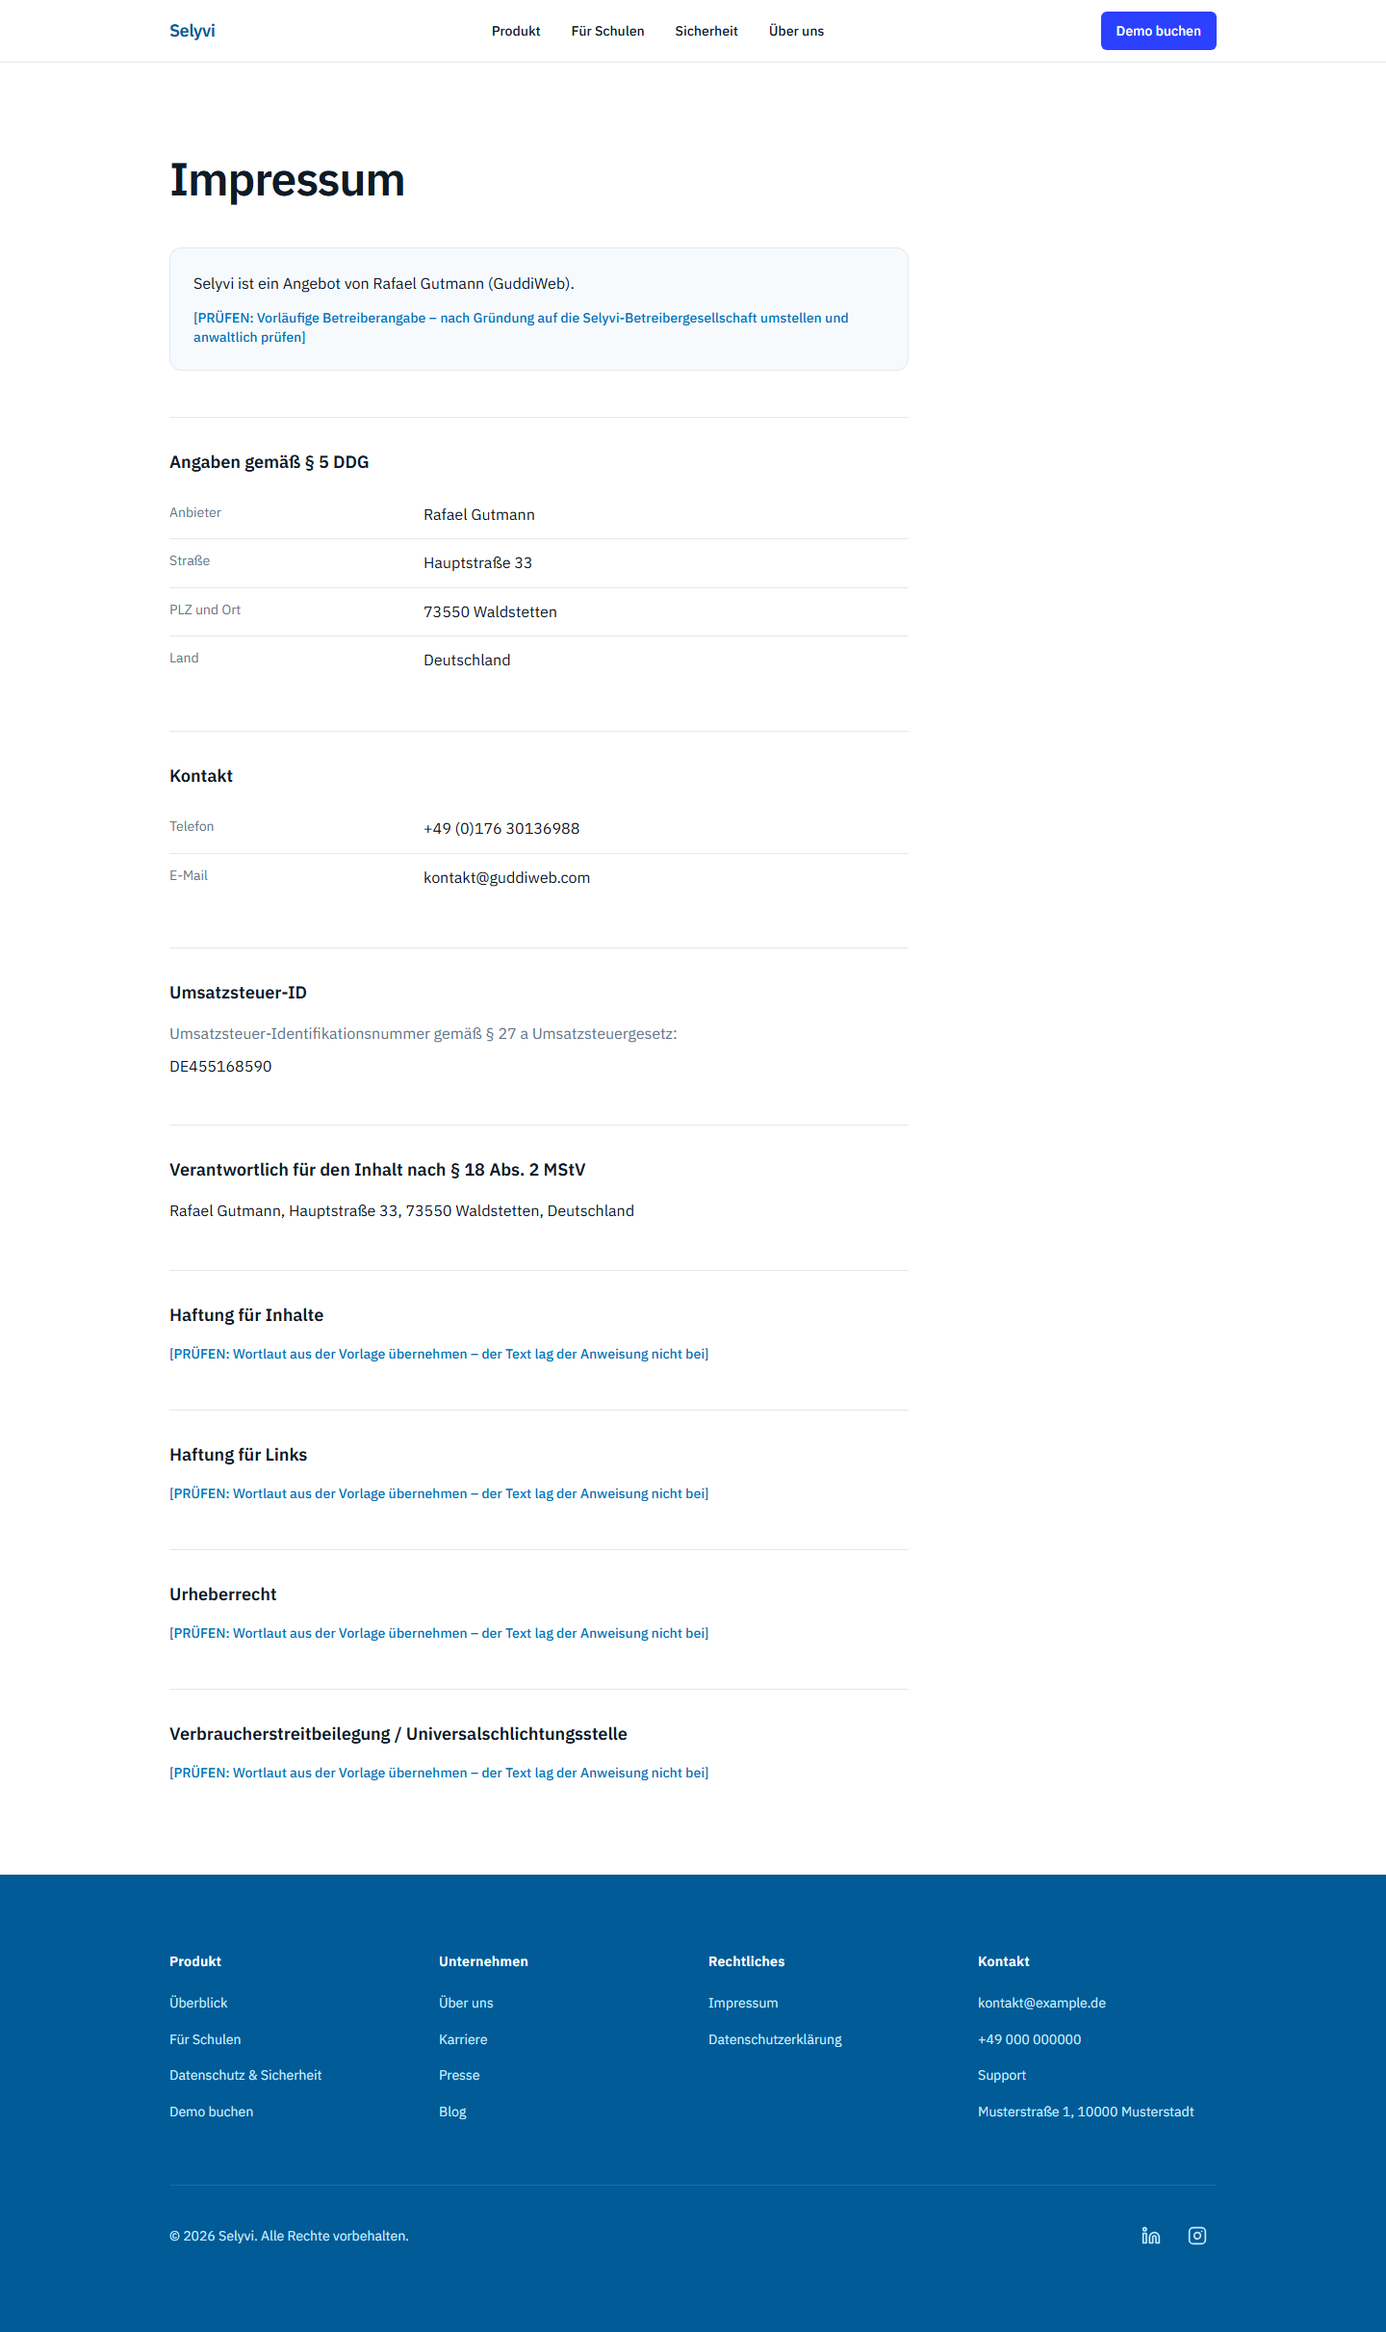
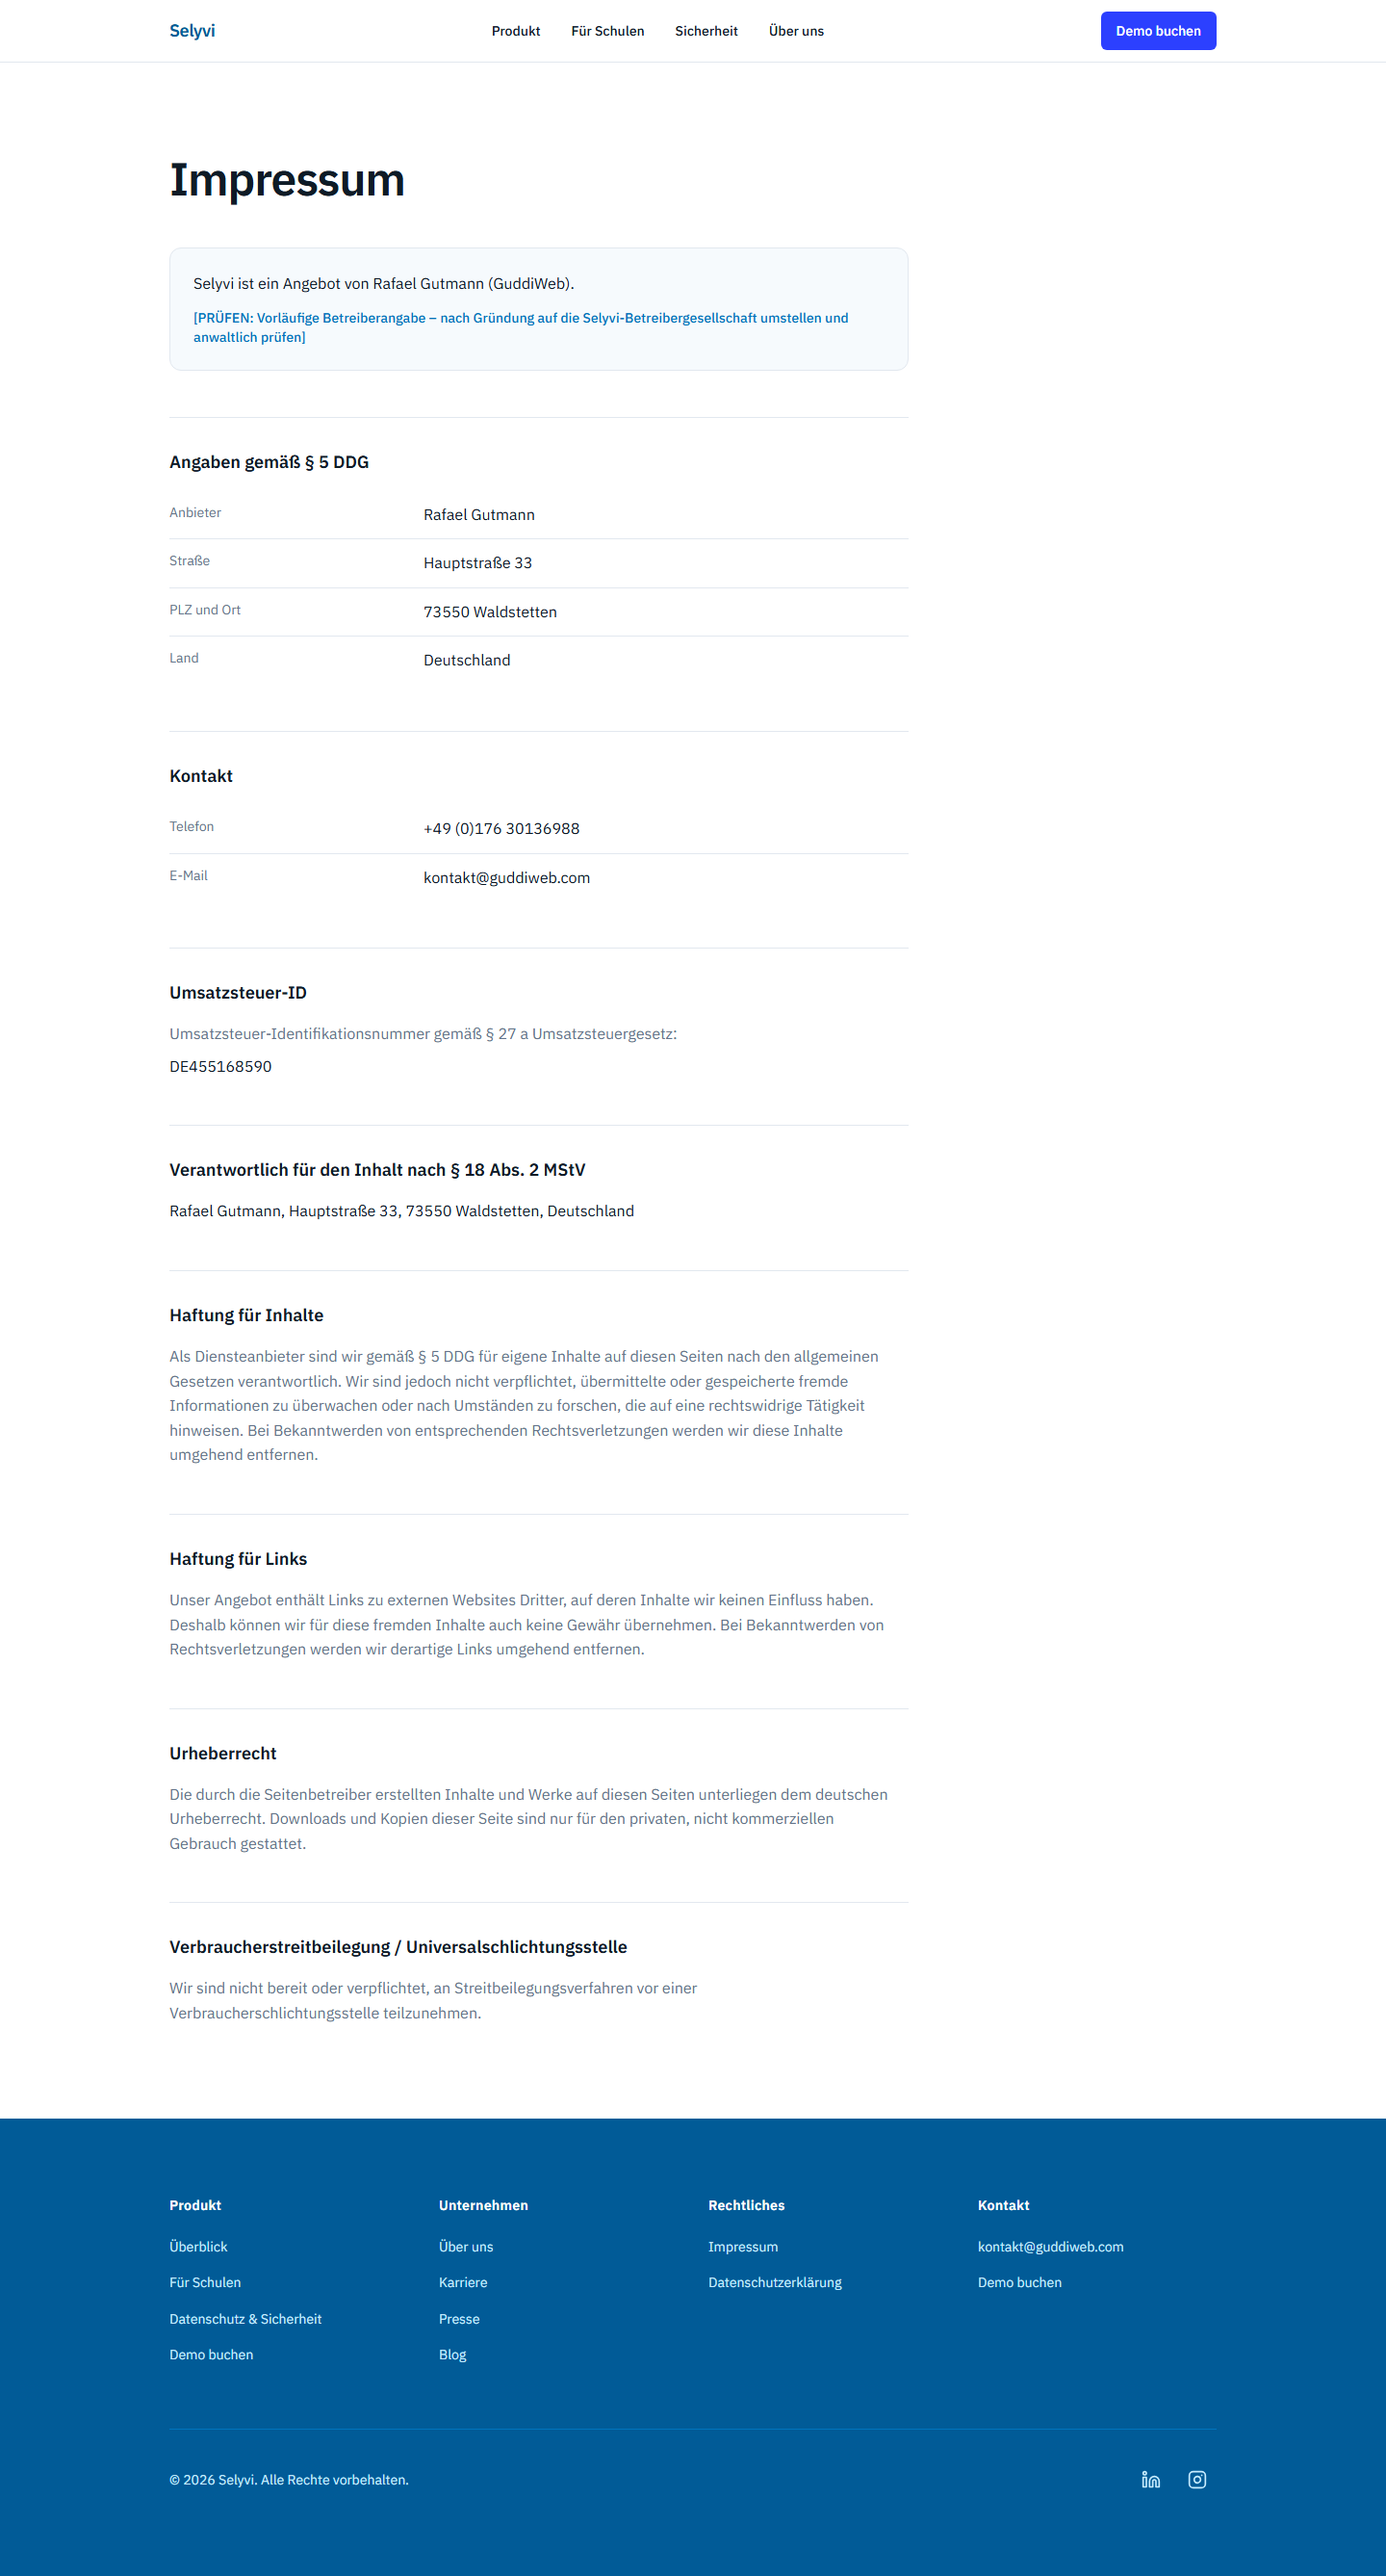
Impressums-Rechtstexte eingesetzt, Footer-Kontakt auf eine Quelle
- Die vier Abschnitte (Haftung fuer Inhalte, Haftung fuer Links, Urheberrecht,
  Verbraucherstreitbeilegung) tragen jetzt den Wortlaut aus der Vorlage. Die
  vier "Vorlage fehlt"-Marker entfallen; auf /impressum bleibt nur noch der
  Hinweis auf die vorlaeufige Betreiberangabe.
- Footer-Kontaktspalte kommt aus legal.ts und ist bewusst reduziert: nur die
  E-Mail-Adresse, kein Telefon, keine Anschrift. Die vollstaendigen Angaben
  stehen im Impressum – eine private Mobilnummer auf jeder Seite auszugeben ist
  etwas anderes, als sie im Impressum bereitzuhalten.
- Damit verschwinden die letzten Musterdaten (kontakt@example.de,
  +49 000 000000, Musterstrasse 1). Geprueft ueber alle 9 Seiten im
  gerenderten HTML.

diff --git a/src/config/legal.ts b/src/config/legal.ts
@@ -97,18 +97,12 @@ export const imprint: Imprint = {
 /**
  * Rechtstexte des Impressums.
  *
- * ==========================================================================
- * DIESE VIER ABSCHNITTE SIND LEER – DER VORLAGENTEXT FEHLT.
- * ==========================================================================
+ * Der Wortlaut ist unverändert aus der Vorlage übernommen. Diese Abschnitte
+ * sind juristische Standardtexte, deren Formulierung Bedeutung hat – wer sie
+ * anpasst, sollte das nicht nach Sprachgefühl tun, sondern nach Rücksprache.
  *
- * Vorgesehen war, den Wortlaut wortgleich aus einer Vorlage zu übernehmen. Die
- * Vorlage lag der Anweisung nicht bei (der Platzhalter „[Text aus dieser
- * Nachricht]" blieb unausgefüllt).
- *
- * Hier steht deshalb nichts. Diese Abschnitte sind juristische Standardtexte,
- * deren Wortlaut Bedeutung hat – eine selbst formulierte Fassung wäre genau
- * die Sorte Text, die im Streitfall nicht trägt. Sobald die Vorlage vorliegt:
- * `body` je Abschnitt füllen, `pending` entfernen.
+ * Ein leeres `body`-Array blendet den Wortlaut aus und zeigt stattdessen einen
+ * [PRÜFEN]-Marker. Das gilt weiterhin für Abschnitte, die später dazukommen.
  */
 export type LegalTextSection = {
   title: string;
@@ -120,8 +114,28 @@ export const IMPRINT_TEXT_REVIEW =
   "Wortlaut aus der Vorlage übernehmen – der Text lag der Anweisung nicht bei";
 
 export const imprintTextSections: LegalTextSection[] = [
-  { title: "Haftung für Inhalte", body: [] },
-  { title: "Haftung für Links", body: [] },
-  { title: "Urheberrecht", body: [] },
-  { title: "Verbraucherstreitbeilegung / Universalschlichtungsstelle", body: [] },
+  {
+    title: "Haftung für Inhalte",
+    body: [
+      "Als Diensteanbieter sind wir gemäß § 5 DDG für eigene Inhalte auf diesen Seiten nach den allgemeinen Gesetzen verantwortlich. Wir sind jedoch nicht verpflichtet, übermittelte oder gespeicherte fremde Informationen zu überwachen oder nach Umständen zu forschen, die auf eine rechtswidrige Tätigkeit hinweisen. Bei Bekanntwerden von entsprechenden Rechtsverletzungen werden wir diese Inhalte umgehend entfernen.",
+    ],
+  },
+  {
+    title: "Haftung für Links",
+    body: [
+      "Unser Angebot enthält Links zu externen Websites Dritter, auf deren Inhalte wir keinen Einfluss haben. Deshalb können wir für diese fremden Inhalte auch keine Gewähr übernehmen. Bei Bekanntwerden von Rechtsverletzungen werden wir derartige Links umgehend entfernen.",
+    ],
+  },
+  {
+    title: "Urheberrecht",
+    body: [
+      "Die durch die Seitenbetreiber erstellten Inhalte und Werke auf diesen Seiten unterliegen dem deutschen Urheberrecht. Downloads und Kopien dieser Seite sind nur für den privaten, nicht kommerziellen Gebrauch gestattet.",
+    ],
+  },
+  {
+    title: "Verbraucherstreitbeilegung / Universalschlichtungsstelle",
+    body: [
+      "Wir sind nicht bereit oder verpflichtet, an Streitbeilegungsverfahren vor einer Verbraucherschlichtungsstelle teilzunehmen.",
+    ],
+  },
 ];

diff --git a/src/config/site.ts b/src/config/site.ts
@@ -1,6 +1,10 @@
+import { imprint } from "@/config/legal";
+
 /**
  * Navigations- und Footer-Struktur.
- * Alle Ziele sind bereits als Routen angelegt (leere Seiten mit H1-Platzhalter).
+ *
+ * Kontaktangaben kommen aus src/config/legal.ts, damit Footer, Impressum und
+ * Datenschutzerklaerung nicht auseinanderlaufen.
  */
 
 export type NavItem = {
@@ -61,11 +65,21 @@ export const footerColumns: FooterColumn[] = [
   },
   {
     title: "Kontakt",
+    /**
+     * Bewusst reduziert: nur die E-Mail-Adresse, kein Telefon, keine Anschrift.
+     *
+     * Die vollständigen Angaben stehen im Impressum – dort gehören sie hin, und
+     * dorthin führt der Link in der Spalte „Rechtliches". Eine private
+     * Mobilnummer auf jeder einzelnen Seite auszugeben, ist etwas anderes als
+     * sie im Impressum bereitzuhalten.
+     *
+     * Die Adresse kommt aus src/config/legal.ts – eine Quelle mit Impressum und
+     * Datenschutzerklärung. Sonst stehen auf derselben Website zwei
+     * verschiedene Kontaktadressen.
+     */
     items: [
-      { label: "kontakt@example.de", href: "mailto:kontakt@example.de" },
-      { label: "+49 000 000000", href: "tel:+4900000000" },
-      { label: "Support", href: "/demo" },
-      { label: "Musterstraße 1, 10000 Musterstadt", href: "/impressum" },
+      { label: imprint.email, href: `mailto:${imprint.email}` },
+      { label: "Demo buchen", href: "/demo" },
     ],
   },
 ];
